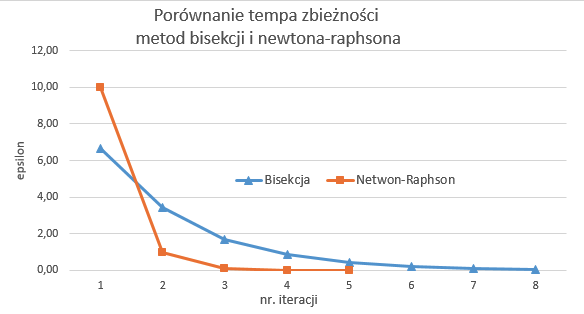
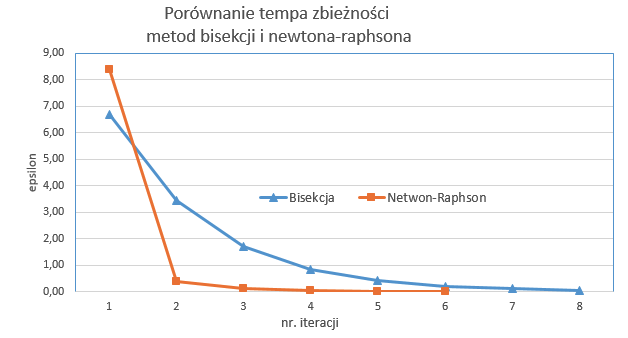
poprawa newtona-raphsona

diff --git a/spr1/bisekcja.cpp b/spr1/bisekcja.cpp
@@ -1,58 +1,58 @@
+
+
 #include <iostream>
 #include <ctime>
-#include <unistd.h>
+//#include <unistd.h>
 #include <iomanip>
 using namespace std;
-
-double f(double x) {
-	return exp(-x) - x;
+ 
+double vel(double c) {
+    double g = 9.81, m = 68.1, t = 10;
+    double result;
+    result = g * m / c * (1 - exp(-(c / m) * t)) - 40;
+    return result;
+ 
 }
-double f_der(double x) {
-	return -exp(-x) - 1;
+double vel_der(double x) {
+    double result = exp(-0.146843 * x) * (4.16764 * pow(10, -16) * x - 668.061 * exp(0.146843 * x) + 2.83816 * pow(10, -15)) / pow(x, 2);
+    return result;
 }
 void newtonRaphson() {
-	double e = 0.0001;
-	double x = 10;
-	double temp;
-	double der = f_der(x);
-	cout << " | " << "x" << " | " << "|f(x)|"<< " | " << "\n";
-	cout << " | " << x << " | " << abs(f(x)) << " | " << "\n";
-	do {
-		temp = x - f(x) / der;
-		x = temp;
-		der=f_der(x);
-		cout << " | " << x << " | " << abs(f(x)) << " | " << "\n";
-	} while (abs(f(x)) > e);
-	cout << "Wynik algorytmu metody Newtona-Raphsona: " << x << "\n";
+    double e = 0.01;
+    double x = 20;
+    double temp;
+    double der = vel_der(x);
+    cout << " | " << "x" << " | " << "|vel(x)|" << " | " << "\n";
+    cout << " | " << x << " | " << abs(vel(x)) << " | " << "\n";
+    do {
+        temp = x - vel(x) / der;
+        x = temp;
+        der = vel_der(x);
+        cout << " | " << x << " | " << abs(vel(x)) << " | " << "\n";
+    } while (abs(vel(x)) > e);
+    cout << "Wynik algorytmu metody Newtona-Raphsona: " << x << "\n";
 }
-
-double vel(float c) {
-	float g = 9.81, m = 68.1, t = 10;
-	double result;
-	result = g * m / c * (1 - exp(-(c / m) * t)) - 40;
-	return result;
-
-}
+ 
+ 
 void bisekcja() {
-	double XL = 12, XR = 16, e = 0.1;
-	double TEMP = XL;
-	double MID = (XL + XR) / 2;
-	double epsilon = 1;
-	cout << " | " << "XL" << " | " << "XR" << " | " << "MID" << " | " << "EPS" << " | " <<"\n";
-	cout  << " | "  << XL << " | " << XR << " | " << MID << " | " << "---"  << " | " << "\n";
-	while (epsilon > e) {
-		
-		TEMP = MID;
-		if (vel(XL) * vel(MID) < 0) XR = MID; else XL = MID;
-		MID = (XL + XR) / 2;
-		epsilon = abs((MID - TEMP) / MID) * 100;
-		cout  << " | "  << XL << " | " << XR << " | " << MID << " | " << epsilon  << " | " << "\n";
-	} 
-	cout << "Wynik algorytmy metody bisekcji: " << MID << "\n\n";
+    double XL = 12, XR = 16, e = 0.1;
+    double TEMP = XL;
+    double MID = (XL + XR) / 2;
+    double epsilon = 1;
+    cout << " | " << "XL" << " | " << "XR" << " | " << "MID" << " | " << "EPS" << " | " << "\n";
+    cout << " | " << XL << " | " << XR << " | " << MID << " | " << "---" << " | " << "\n";
+    while (epsilon > e) {
+ 
+        TEMP = MID;
+        if (vel(XL) * vel(MID) < 0) XR = MID; else XL = MID;
+        MID = (XL + XR) / 2;
+        epsilon = abs((MID - TEMP) / MID) * 100;
+        cout << " | " << XL << " | " << XR << " | " << MID << " | " << epsilon << " | " << "\n";
+    }
+    cout << "Wynik algorytmy metody bisekcji: " << MID << "\n\n";
 }
-
+ 
 int main(int argc, char** argv) {
-	bisekcja();
-	newtonRaphson();
-
+    bisekcja();
+    newtonRaphson();
 };

diff --git a/spr1/AiSD_spr1_Radosław_Kulig.md b/spr1/AiSD_spr1_Radosław_Kulig.md
@@ -38,21 +38,21 @@ double vel(float c) {
 	return result;
 }
 void bisekcja() {
-	double XL = 12, XR = 16, e = 0.1;
-	double TEMP = XL;
-	double MID = (XL + XR) / 2;
-	double epsilon = 1;
-	cout << " | " << "XL" << " | " << "XR" << " | " << "MID" << " | " << "EPS" << " | " <<"\n";
-	cout  << " | "  << XL << " | " << XR << " | " << MID << " | " << "---"  << " | " << "\n";
-	while (epsilon > e) {
-		
-		TEMP = MID;
-		if (vel(XL) * vel(MID) < 0) XR = MID; else XL = MID;
-		MID = (XL + XR) / 2;
-		epsilon = abs((MID - TEMP) / MID) * 100;
-		cout  << " | "  << XL << " | " << XR << " | " << MID << " | " << epsilon  << " | " << "\n";
-	} 
-	cout << "Wynik algorytmy metody bisekcji: " << MID << "\n\n";
+    double XL = 12, XR = 16, e = 0.1;
+    double TEMP = XL;
+    double MID = (XL + XR) / 2;
+    double epsilon = 1;
+    cout << " | " << "XL" << " | " << "XR" << " | " << "MID" << " | " << "EPS" << " | " << "\n";
+    cout << " | " << XL << " | " << XR << " | " << MID << " | " << "---" << " | " << "\n";
+    while (epsilon > e) {
+ 
+        TEMP = MID;
+        if (vel(XL) * vel(MID) < 0) XR = MID; else XL = MID;
+        MID = (XL + XR) / 2;
+        epsilon = abs((MID - TEMP) / MID) * 100;
+        cout << " | " << XL << " | " << XR << " | " << MID << " | " << epsilon << " | " << "\n";
+    }
+    cout << "Wynik algorytmy metody bisekcji: " << MID << "\n\n";
 }
 ```
 
@@ -75,26 +75,24 @@ Założenia:
 ## Implementacja algorytmu metody Newtona-Raphsona
 
 ```cpp
-double f(double x) {
-	return exp(-x) - x;
-}
-double f_der(double x) {
-	return -exp(-x) - 1;
+double vel_der(double x) {
+    double result = exp(-0.146843 * x) * (4.16764 * pow(10, -16) * x - 668.061 * exp(0.146843 * x) + 2.83816 * pow(10, -15)) / pow(x, 2);
+    return result;
 }
 void newtonRaphson() {
-	double e = 0.0001;
-	double x = 10;
-	double temp;
-	double der = f_der(x);
-	cout << " | " << "x" << " | " << "abs(f(x))"<< " | " << "\n";
-	cout << " | " << x << " | " << abs(f(x)) << " | " << "\n";
-	do {
-		temp = x - f(x) / der;
-		x = temp;
-		der=f_der(x);
-		cout << " | " << x << " | " << abs(f(x)) << " | " << "\n";
-	} while (abs(f(x)) > e);
-	cout << "Wynik algorytmu metody Newtona-Raphsona: " << x << "\n";
+    double e = 0.01;
+    double x = 10;
+    double temp;
+    double der = vel_der(x);
+    cout << " | " << "x" << " | " << "|vel(x)|" << " | " << "\n";
+    cout << " | " << x << " | " << abs(vel(x)) << " | " << "\n";
+    do {
+        temp = x - vel(x) / der;
+        x = temp;
+        der = vel_der(x);
+        cout << " | " << x << " | " << abs(vel(x)) << " | " << "\n";
+    } while (abs(vel(x)) > e);
+    cout << "Wynik algorytmu metody Newtona-Raphsona: " << x << "\n";
 }
 ```
 
@@ -118,15 +116,19 @@ void newtonRaphson() {
 
 ### Algorytm Newtona-Raphsona
 
- | x | \|f(x)\| | 
- | ------ | ------ |
- | 10 | 9.99995 | 
- | 0.000499377 | 0.999001 | 
- | 0.500125 | 0.10633 | 
- | 0.566314 | 0.00129962 | 
- | 0.567143 | 1.9501e-07 | 
- 
-##### Wynik algorytmu metody Newtona-Raphsona: `0.567143`.
+ | x | \|vel(x)\| | 
+ | 10 | 11.4215 | 
+ | 11.7097 | 6.83073 | 
+ | 13.1116 | 3.52177 | 
+ | 14.0179 | 1.57401 | 
+ | 14.4809 | 0.631897 | 
+ | 14.6792 | 0.23869 | 
+ | 14.7562 | 0.0877069 | 
+ | 14.7848 | 0.0318761 | 
+ | 14.7952 | 0.0115374 | 
+ | 14.799 | 0.00416963 | 
+
+##### Wynik algorytmu metody Newtona-Raphsona: `14.799`.
 
 ## Wykres
 
